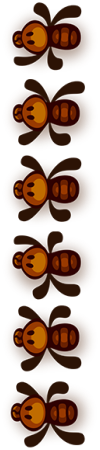
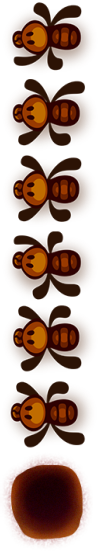
consolidate ant hole sprite

diff --git a/CutTheRope/GameMain/AntsPath.cs b/CutTheRope/GameMain/AntsPath.cs
@@ -153,7 +153,7 @@ namespace CutTheRope.GameMain
             {
                 Looped = false;
 
-                startHole = Image.Image_createWithResID(Resources.Img.AntHole);
+                startHole = Image.Image_createWithResIDQuad(Resources.Img.ObjAnt, 6);
                 startHole.anchor = CENTER;
                 startHole.x = first.startPoint.X;
                 startHole.y = first.startPoint.Y;
@@ -165,7 +165,7 @@ namespace CutTheRope.GameMain
                 startHole.y += firstDir.Y * -halfWidth;
                 StartAntOffset = halfWidth;
 
-                endHole = Image.Image_createWithResID(Resources.Img.AntHole);
+                endHole = Image.Image_createWithResIDQuad(Resources.Img.ObjAnt, 6);
                 endHole.anchor = CENTER;
                 endHole.x = last.endPoint.X;
                 endHole.y = last.endPoint.Y;

diff --git a/CutTheRope/GameMain/Resources.cs b/CutTheRope/GameMain/Resources.cs
@@ -292,7 +292,6 @@ namespace CutTheRope.GameMain
             public const string ObjSpikes = "obj_spikes";
             public const string ObjElectrodes = "obj_electrodes";
             public const string ObjAnt = "obj_ant";
-            public const string AntHole = "ant_hole";
             public const string ObjBeeHd = "obj_bee_hd";
             public const string ObjPollenHd = "obj_pollen_hd";
             public const string CharSupports = "char_supports";

diff --git a/CutTheRope/GameMain/LevelResourceScanner.cs b/CutTheRope/GameMain/LevelResourceScanner.cs
@@ -87,7 +87,6 @@ namespace CutTheRope.GameMain
                         break;
                     case "ants":
                         _ = resources.Add(Resources.Img.ObjAnt);
-                        _ = resources.Add(Resources.Img.AntHole);
                         break;
                     case "lantern":
                         _ = resources.Add(Resources.Img.ObjLantern);
